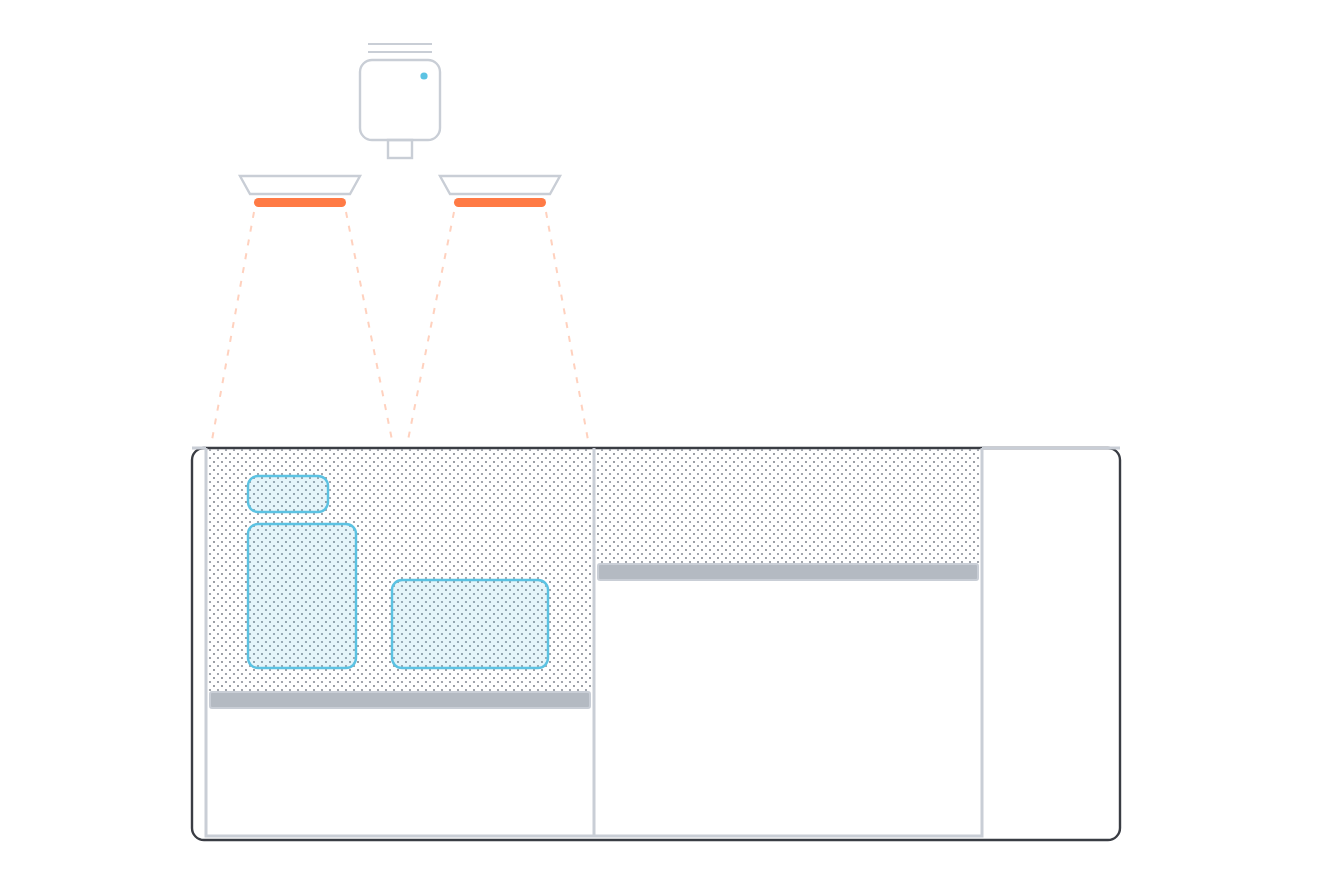
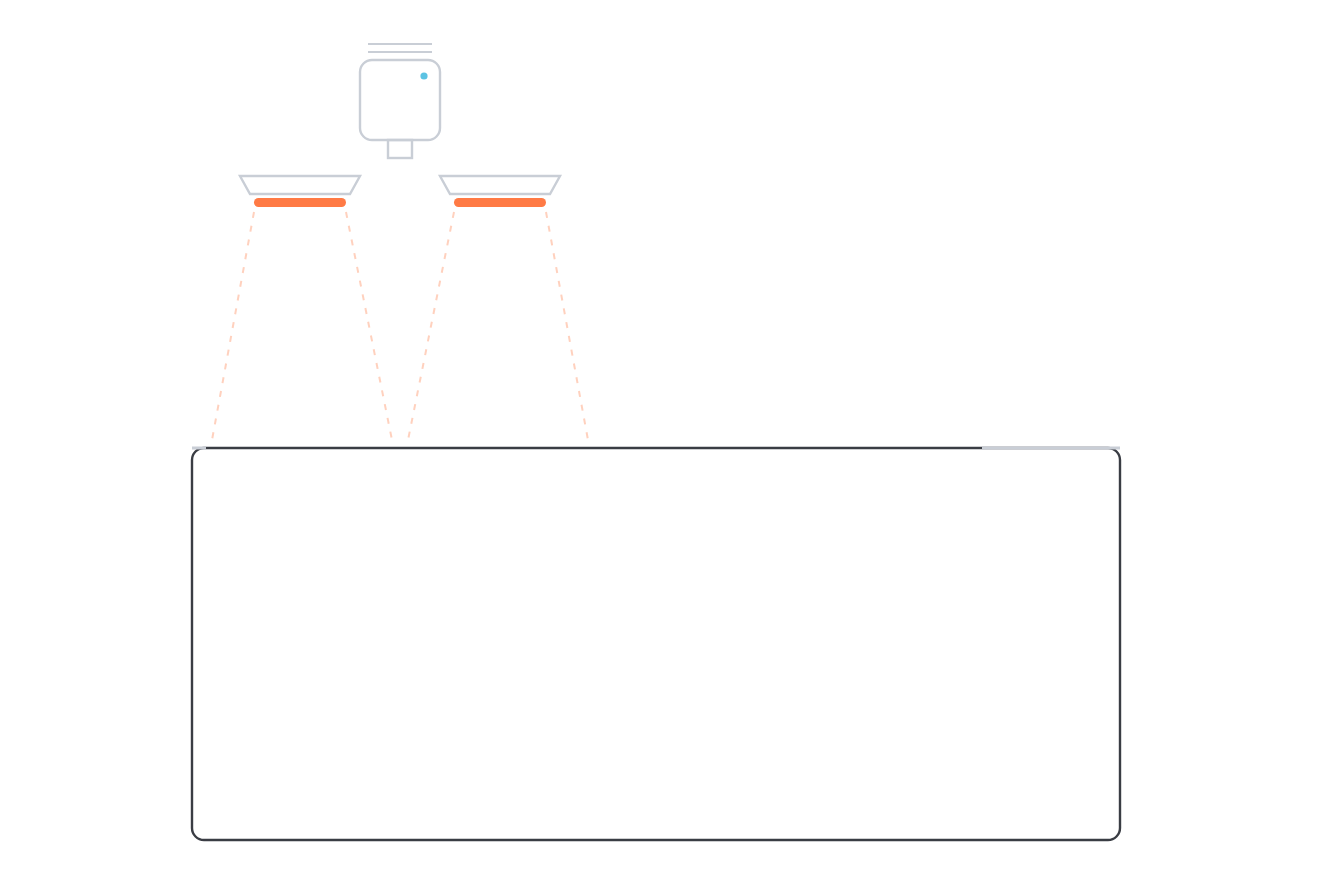
Bewegen: Bauraum mit live mitfahrender Bau- und Vorratsplatte, Tasten unter der jeweiligen Kammer
Claude-Session: https://claude.ai/code/session_01WkSzCPkPaADoReGQ18Kj4m

Changed region(s): [[0.1553, 0.5216, 0.7455, 0.8284], [0.1553, 0.9205, 0.7455, 0.9511]]

diff --git a/app/Main.qml b/app/Main.qml
@@ -54,6 +54,13 @@ Window {
             if (after) after(j.ok)
         })
     }
+    function jog(platform, mm) {
+        win.send({ cmd: "move", platform: platform, mm: mm }, function (ok) {
+            if (!ok) return
+            var m = { print: win.moved.print, reservoir: win.moved.reservoir }
+            m[platform] += mm; win.moved = m
+        })
+    }
     function ask(title, text, action) {
         dlg.title = title; dlg.text = text; dlg.action = action; dlg.visible = true
     }
@@ -260,6 +267,7 @@ Window {
                     Chamber {
                         id: chamber
                         printing: !!win.st.printing
+                        buildDrop: win.moved.print; resDrop: win.moved.reservoir
                         anchors.bottom: parent.bottom; anchors.bottomMargin: 18
                         anchors.horizontalCenter: parent.horizontalCenter
                     }
@@ -333,18 +341,41 @@ Window {
                         anchors.fill: parent; anchors.margins: 12; spacing: 8
                         Lbl { text: win.st.printing ? "Während des Drucks gesperrt" : "Schrittweite" }
                         Seg { width: parent.width; items: [["0,1 mm", 0.1], ["1 mm", 1], ["10 mm", 10]]; value: win.step; onPicked: function (v) { win.step = v } }
-                        Row {
-                            width: parent.width; height: parent.height - 62; spacing: 8
+                        // Bauraum mit Platten, die live mitfahren (Ausschnitt: Deck und Kammern)
+                        Item {
+                            id: moveView
+                            width: parent.width; height: 260 * sc; clip: true
+                            readonly property real sc: width / 464
+                            function px(u) { return (u - 96) * sc }
+                            Chamber {
+                                fit: moveView.sc; x: -96 * moveView.sc; y: -168 * moveView.sc
+                                buildDrop: win.moved.print; resDrop: win.moved.reservoir
+                            }
                             Repeater {
-                                model: [["Bauplattform", "print"], ["Vorrat", "reservoir"]]
-                                Column {
-                                    width: (parent.width - 8) / 2; height: parent.height; spacing: 8
-                                    Lbl { text: modelData[0] }
-                                    KButton { width: parent.width; height: (parent.height - 56) / 2; text: "▲"; size: 22; ok: !win.st.printing
-                                        onClicked: win.send({ cmd: "move", platform: modelData[1], mm: -win.step }, function (ok) { if (ok) { var m = win.moved; m[modelData[1]] -= win.step; win.moved = m } }) }
-                                    KButton { width: parent.width; height: (parent.height - 56) / 2; text: "▼"; size: 22; ok: !win.st.printing
-                                        onClicked: win.send({ cmd: "move", platform: modelData[1], mm: win.step }, function (ok) { if (ok) { var m = win.moved; m[modelData[1]] += win.step; win.moved = m } }) }
-                                    Lbl { text: "seit Start " + Api.de(win.moved[modelData[1]]) + " mm" }
+                                model: [["Bauplattform", "print", 200], ["Vorrat", "reservoir", 394]]
+                                Item {
+                                    x: moveView.px(modelData[2]) - 84; y: 0; width: 168; height: Math.max(lab.height + 4, (221 - 168) * moveView.sc)
+                                    Rectangle { anchors.fill: parent; color: "#151518" }   // deckt die Heizstrahl-Linien ab
+                                    Column {
+                                        id: lab; width: parent.width
+                                        Lbl { anchors.horizontalCenter: parent.horizontalCenter; text: modelData[0] }
+                                        Text { anchors.horizontalCenter: parent.horizontalCenter
+                                            text: (win.moved[modelData[1]] > 0 ? "−" : win.moved[modelData[1]] < 0 ? "+" : "") + Api.de(Math.abs(win.moved[modelData[1]])) + " mm"
+                                            color: win.cInk; font.family: win.fontName; font.pixelSize: 18; font.weight: Font.Medium }
+                                    }
+                                }
+                            }
+                        }
+                        // Fahrtasten direkt unter der jeweiligen Kammer
+                        Item {
+                            width: parent.width; height: 56
+                            Repeater {
+                                model: [["print", 200], ["reservoir", 394]]
+                                Row {
+                                    spacing: 8
+                                    x: moveView.px(modelData[1]) - width / 2
+                                    KButton { width: 76; height: 56; text: "▲"; size: 20; ok: !win.st.printing; onClicked: win.jog(modelData[0], -win.step) }
+                                    KButton { width: 76; height: 56; text: "▼"; size: 20; ok: !win.st.printing; onClicked: win.jog(modelData[0], win.step) }
                                 }
                             }
                         }
@@ -369,7 +400,7 @@ Window {
                                 Val { width: parent.width - 120; height: 44; horizontalAlignment: Text.AlignHCenter; verticalAlignment: Text.AlignVCenter; text: win.jobH + " mm" }
                                 KButton { width: 52; height: 44; text: "+"; size: 20; onClicked: win.jobH = Math.min(105, win.jobH + 5) } }
                             KButton { width: parent.width; height: 44; text: "Vorrat um " + (win.jobH + 5) + " mm absenken"; ok: !win.st.printing
-                                onClicked: win.ask("Pulver laden?", "Vorrat fährt " + (win.jobH + 5) + " mm nach unten (Bauhöhe " + win.jobH + " mm + 5 mm Puffer). Danach Pulver einfüllen und abziehen.", function () { win.send({ cmd: "move", platform: "reservoir", mm: win.jobH + 5 }) }) }
+                                onClicked: win.ask("Pulver laden?", "Vorrat fährt " + (win.jobH + 5) + " mm nach unten (Bauhöhe " + win.jobH + " mm + 5 mm Puffer). Danach Pulver einfüllen und abziehen.", function () { win.jog("reservoir", win.jobH + 5) }) }
                         }
                     }
                     KButton { width: parent.width; kind: "red"; text: "Motoren stoppen"; onClicked: win.send({ cmd: "freeze_motors" }) }

diff --git a/app/Chamber.qml b/app/Chamber.qml
@@ -5,13 +5,49 @@ import QtQuick
 Item {
     id: c
     property bool printing: false
+    // Wie weit die Platten seit Start nach unten gefahren sind (mm, + = runter)
+    property real buildDrop: 0
+    property real resDrop: 0
+    property real fit: -1               // fester Maßstab (Bewegen-Seite), sonst automatisch
+    readonly property real k: 1.6       // Zeichnungseinheiten pro mm
     function sweep() { if (printing) sweepAnim.restart() }
 
     width: 660; height: 440
-    scale: parent ? Math.min(parent.width / 660, (parent.height - 30) / 440) : 1
-    transformOrigin: Item.Bottom
+    scale: fit > 0 ? fit : (parent ? Math.min(parent.width / 660, (parent.height - 30) / 440) : 1)
+    transformOrigin: fit > 0 ? Item.TopLeft : Item.Bottom
 
+    // Gehäuse, Deck, Heizer, Laserkopf
     Image { anchors.fill: parent; source: "assets/chamber.png"; smooth: true; mipmap: true }
+
+    // Plattformen fahren live mit; Pulver liegt auf den Platten
+    property real buildY: Math.max(232, Math.min(408, 346 + buildDrop * k))
+    property real resY: Math.max(232, Math.min(408, 282 + resDrop * k))
+    Behavior on buildY { NumberAnimation { duration: 400; easing.type: Easing.OutCubic } }
+    Behavior on resY { NumberAnimation { duration: 400; easing.type: Easing.OutCubic } }
+
+    Item {   // Baukammer
+        x: 104; y: 224; width: 192; height: 194; clip: true
+        Image { y: Math.max(0, c.buildY - 224 - 122); width: parent.width; height: c.buildY - 224 - y; source: "assets/powder.png"; fillMode: Image.Tile; smooth: false }
+        Repeater {
+            model: [[20, -84, 54, 72], [92, -56, 78, 44], [20, -108, 40, 18]]
+            Rectangle {
+                x: modelData[0]; y: c.buildY - 224 + modelData[1]; width: modelData[2]; height: modelData[3]; radius: 5
+                color: "#292fa6cc"; border.color: "#5cc3e3"; border.width: 1.2
+            }
+        }
+        Rectangle { x: 1; y: c.buildY - 224; width: 190; height: 8; radius: 1; color: "#b4bac2"; border.color: "#c9ced6"; border.width: 1 }
+    }
+    Item {   // Vorrat
+        x: 298; y: 224; width: 192; height: 194; clip: true
+        Image { y: Math.max(0, c.resY - 224 - 58); width: parent.width; height: c.resY - 224 - y; source: "assets/powder.png"; fillMode: Image.Tile; smooth: false }
+        Rectangle { x: 1; y: c.resY - 224; width: 190; height: 8; radius: 1; color: "#b4bac2"; border.color: "#c9ced6"; border.width: 1 }
+    }
+    // Kammerwände aus Blech (über dem Pulver)
+    Repeater {
+        model: [103, 297, 491]
+        Rectangle { x: modelData - 0.75; y: 224; width: 1.5; height: 194.75; color: "#c9ced6" }
+    }
+    Rectangle { x: 102.25; y: 417.25; width: 389.5; height: 1.5; color: "#c9ced6" }
 
     // Heizstrahler glimmen
     Repeater {

diff --git a/design/chamber_gen.py b/design/chamber_gen.py
@@ -1,0 +1,32 @@
+L='#c9ced6'; D='#3a3d44'; P='#5cc3e3'
+B0,W=104,192; R0=B0+W+2          # Baukammer 104–296, Blech, Vorrat 298–490
+DL,DR=96,560                      # Deck: links knapp, rechts Parkplatz für den Beschichter
+defs='''<pattern id="dots" width="4" height="4" patternUnits="userSpaceOnUse"><circle cx="1" cy="1" r="0.55" fill="#8b9099"/><circle cx="3" cy="3" r="0.45" fill="#6d727b"/></pattern>'''
+s=f'<rect x="{DL}" y="224" width="{DR-DL}" height="196" rx="6" fill="none" stroke="{D}" stroke-width="1.2"/>'
+# Pulver
+s+=f'<rect x="{B0}" y="224" width="{W}" height="122" fill="url(#dots)"/>'
+s+=f'<rect x="{R0}" y="224" width="{W}" height="58" fill="url(#dots)"/>'
+# Bauteile
+for x,y,w,h in [(124,262,54,72),(196,290,78,44),(124,238,40,18)]:
+    s+=f'<rect x="{x}" y="{y}" width="{w}" height="{h}" rx="5" fill="{P}" fill-opacity="0.16" stroke="{P}" stroke-width="1.2"/>'
+# Kammern aus Blech: linke Wand, gemeinsames Blech, rechte Wand, Boden mit Durchführung
+s+=f'<path d="M{B0-1} 224 V418 H{R0+W+1} V224 M{B0+W+1} 224 V418" stroke="{L}" stroke-width="1.5" fill="none"/>'
+# Plattformen und Spindeln
+for x,ph in ((B0,346),(R0,282)):
+    s+=f'<rect x="{x+1}" y="{ph}" width="{W-2}" height="8" rx="1" fill="#b4bac2" stroke="{L}" stroke-width="1"/>'
+# Deck (Blech): bis an die Kammerkanten, dazwischen offen
+s+=f'<path d="M{DL} 224 H{B0-1} M{R0+W+1} 224 H{DR}" stroke="{L}" stroke-width="1.5"/>'
+# IR-Heizer: schmal, beide über der Bauplatte
+for cx in (150,250):
+    s+=f'<path d="M{cx-30} 88 h60 l-5 9 h-50 z" fill="none" stroke="{L}" stroke-width="1.2"/>'
+    s+=f'<rect x="{cx-23}" y="99" width="46" height="4.5" rx="2.25" fill="#ff7a45"/>'
+s+=f'<path d="M127 106 L{B0+2} 220 M173 106 L196 220 M227 106 L204 220 M273 106 L{B0+W-2} 220" stroke="#ff7a45" stroke-opacity="0.35" stroke-dasharray="3 4"/>'
+# Laserkopf mittig über der Bauplatte
+s+=f'<rect x="180" y="30" width="40" height="40" rx="6" fill="none" stroke="{L}" stroke-width="1.2"/><path d="M184 22h32 M184 26h32" stroke="{L}"/><rect x="194" y="70" width="12" height="9" fill="none" stroke="{L}" stroke-width="1.2"/><circle cx="212" cy="38" r="1.8" fill="{P}"/>'
+open('/tmp/f/chamber.html','w').write(f'<html><body style="margin:0;background:transparent"><svg viewBox="0 0 660 440" width="1320" height="880" xmlns="http://www.w3.org/2000/svg"><defs>{defs}</defs>{s}</svg></body></html>')
+coater=f'''<html><body style="margin:0;background:transparent"><svg viewBox="0 0 60 40" width="120" height="80" xmlns="http://www.w3.org/2000/svg">
+<rect x="4.6" y="8.6" width="50.8" height="19" rx="3.5" fill="#151518" stroke="{L}" stroke-width="1.2"/>
+<path d="M10 27.6 V35.5 H50 V27.6" fill="#151518" stroke="{L}" stroke-width="1.2"/>
+<line x1="12" y1="35.5" x2="48" y2="35.5" stroke="{L}" stroke-width="1.6"/>
+<circle cx="48" cy="14.5" r="1.5" fill="{P}"/></svg></body></html>'''
+open('/tmp/f/coater.html','w').write(coater)

diff --git a/design/chamber_bg_gen.py b/design/chamber_bg_gen.py
@@ -1,0 +1,15 @@
+L='#c9ced6'; D='#3a3d44'; P='#5cc3e3'
+B0,W=104,192; R0=B0+W+2          # Baukammer 104–296, Blech, Vorrat 298–490
+DL,DR=96,560                      # Deck: links knapp, rechts Parkplatz für den Beschichter
+defs='''<pattern id="dots" width="4" height="4" patternUnits="userSpaceOnUse"><circle cx="1" cy="1" r="0.55" fill="#8b9099"/><circle cx="3" cy="3" r="0.45" fill="#6d727b"/></pattern>'''
+s=f'<rect x="{DL}" y="224" width="{DR-DL}" height="196" rx="6" fill="none" stroke="{D}" stroke-width="1.2"/>'
+# Deck (Blech): bis an die Kammerkanten, dazwischen offen
+s+=f'<path d="M{DL} 224 H{B0-1} M{R0+W+1} 224 H{DR}" stroke="{L}" stroke-width="1.5"/>'
+# IR-Heizer: schmal, beide über der Bauplatte
+for cx in (150,250):
+    s+=f'<path d="M{cx-30} 88 h60 l-5 9 h-50 z" fill="none" stroke="{L}" stroke-width="1.2"/>'
+    s+=f'<rect x="{cx-23}" y="99" width="46" height="4.5" rx="2.25" fill="#ff7a45"/>'
+s+=f'<path d="M127 106 L{B0+2} 220 M173 106 L196 220 M227 106 L204 220 M273 106 L{B0+W-2} 220" stroke="#ff7a45" stroke-opacity="0.35" stroke-dasharray="3 4"/>'
+# Laserkopf mittig über der Bauplatte
+s+=f'<rect x="180" y="30" width="40" height="40" rx="6" fill="none" stroke="{L}" stroke-width="1.2"/><path d="M184 22h32 M184 26h32" stroke="{L}"/><rect x="194" y="70" width="12" height="9" fill="none" stroke="{L}" stroke-width="1.2"/><circle cx="212" cy="38" r="1.8" fill="{P}"/>'
+open('/tmp/f/chamber_bg.html','w').write(f'<html><body style="margin:0;background:transparent"><svg viewBox="0 0 660 440" width="1320" height="880" xmlns="http://www.w3.org/2000/svg"><defs>{defs}</defs>{s}</svg></body></html>')
